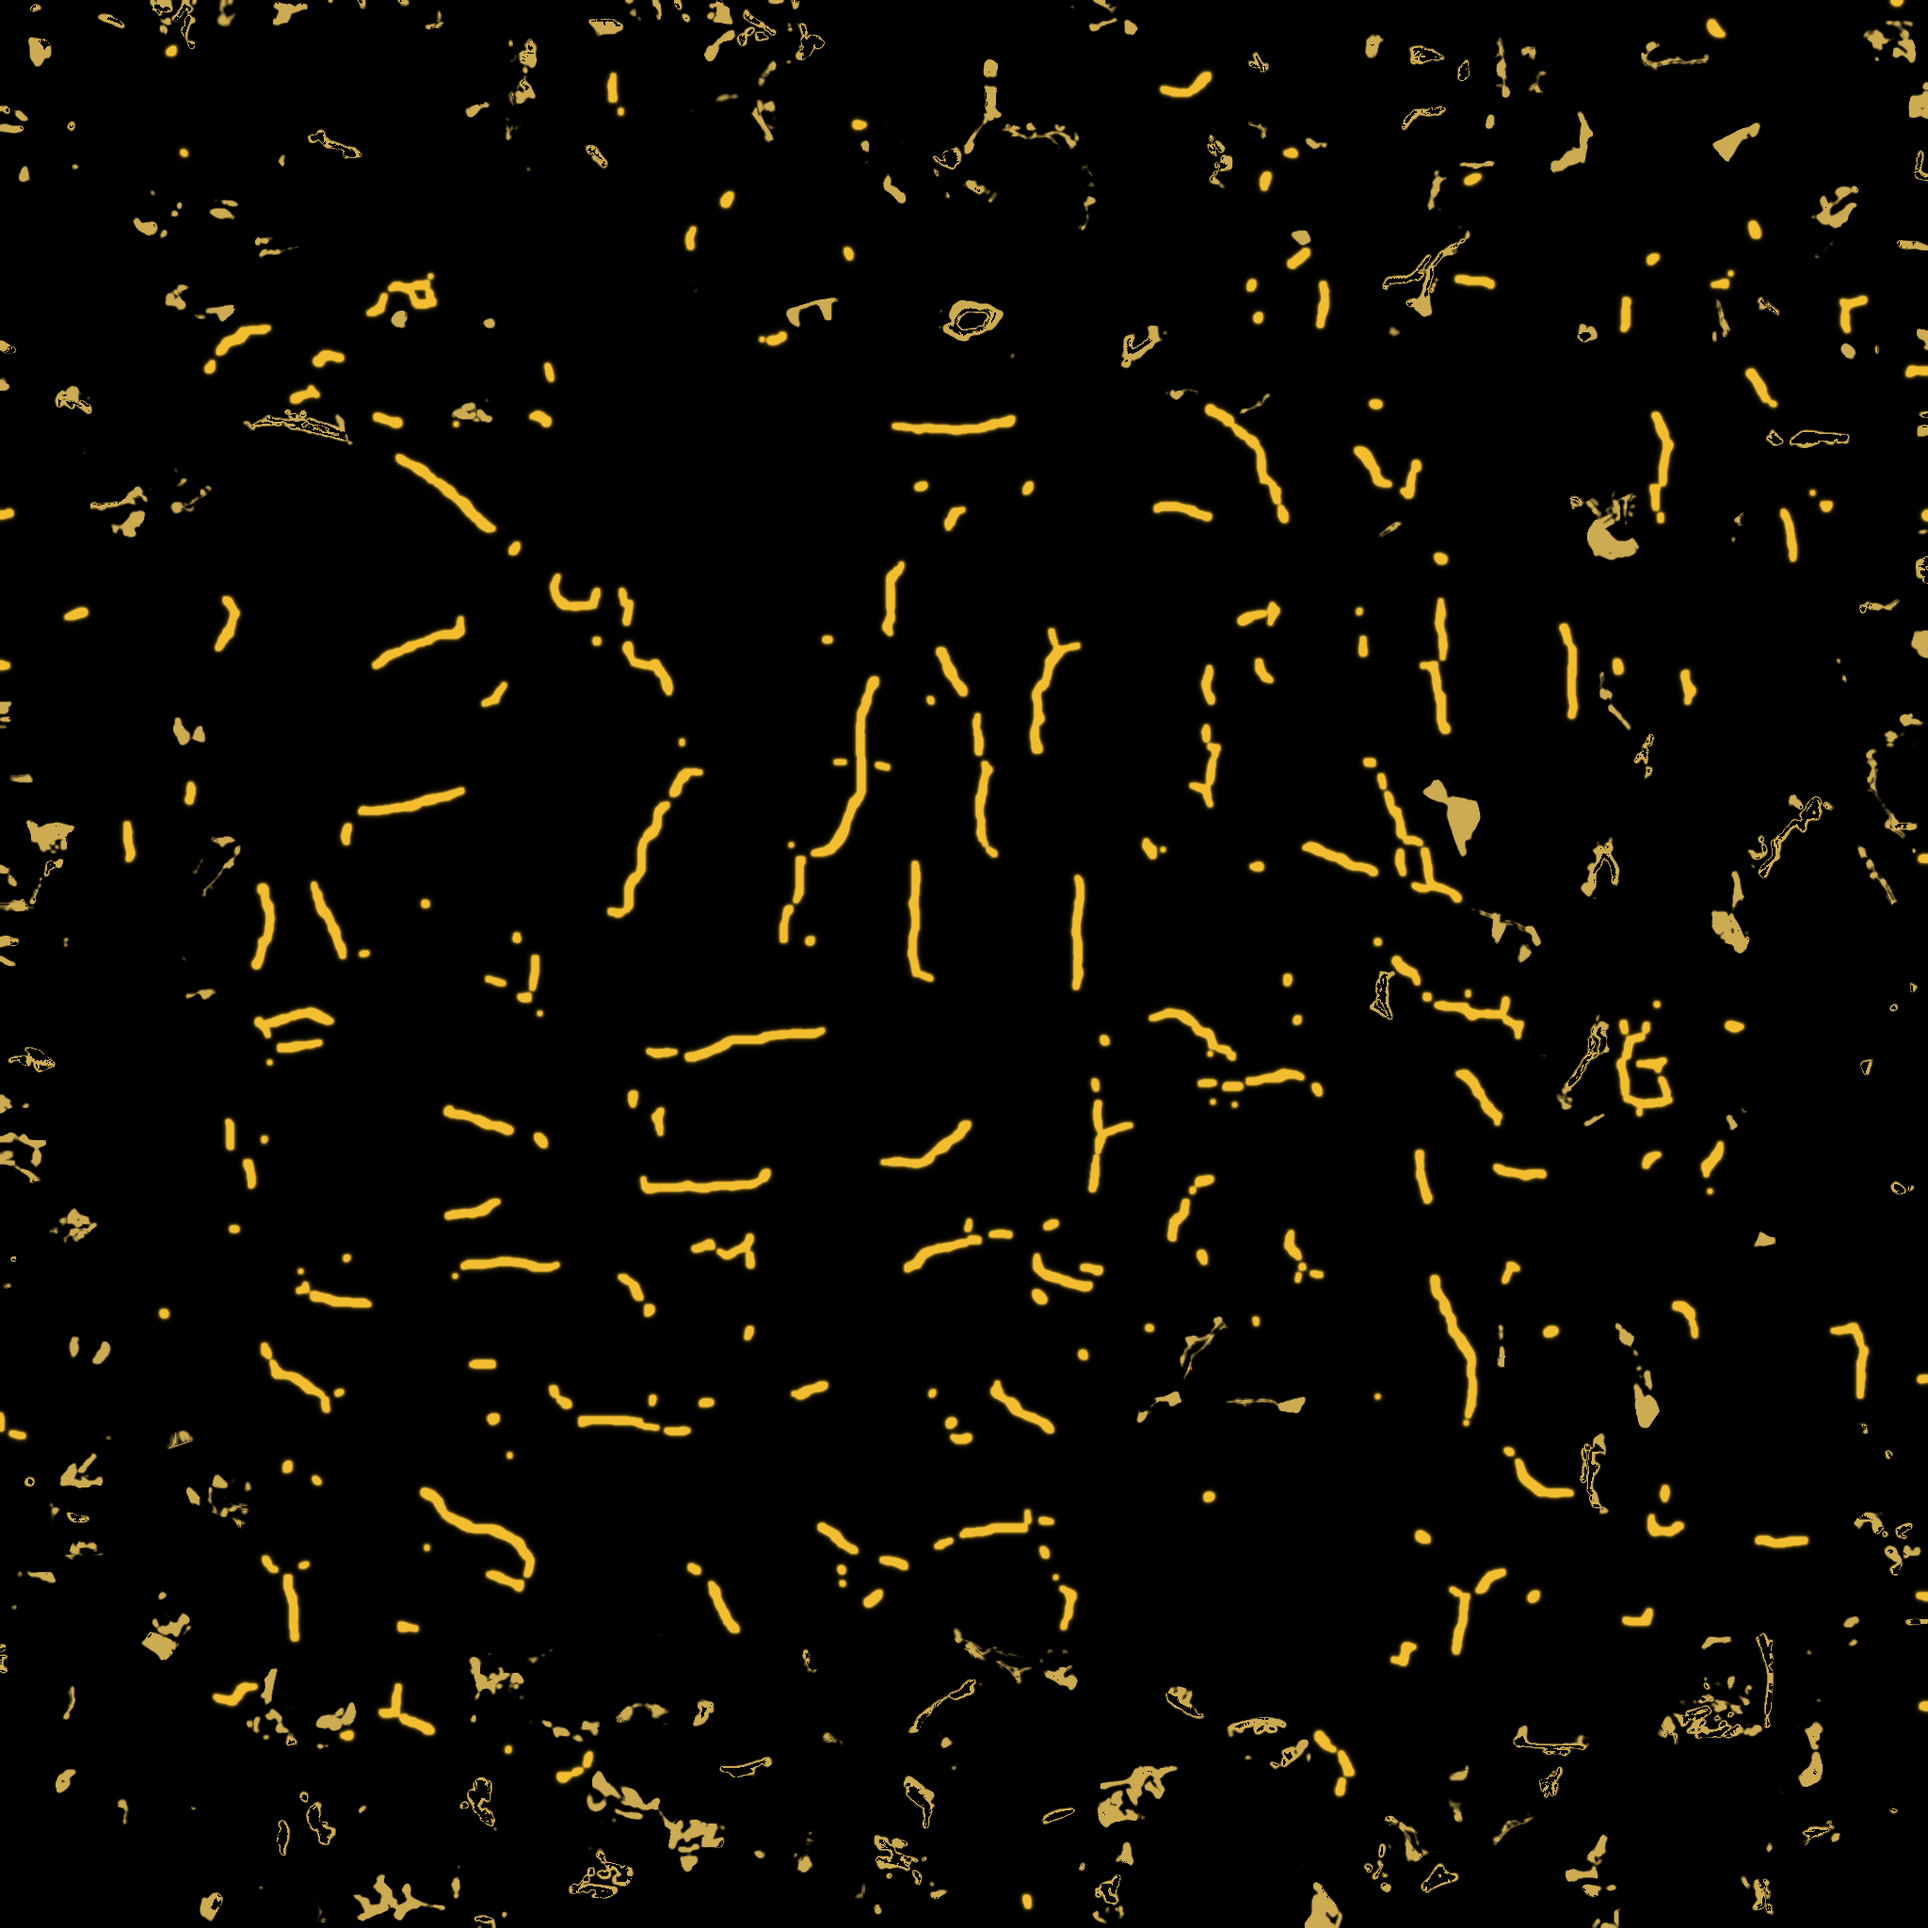
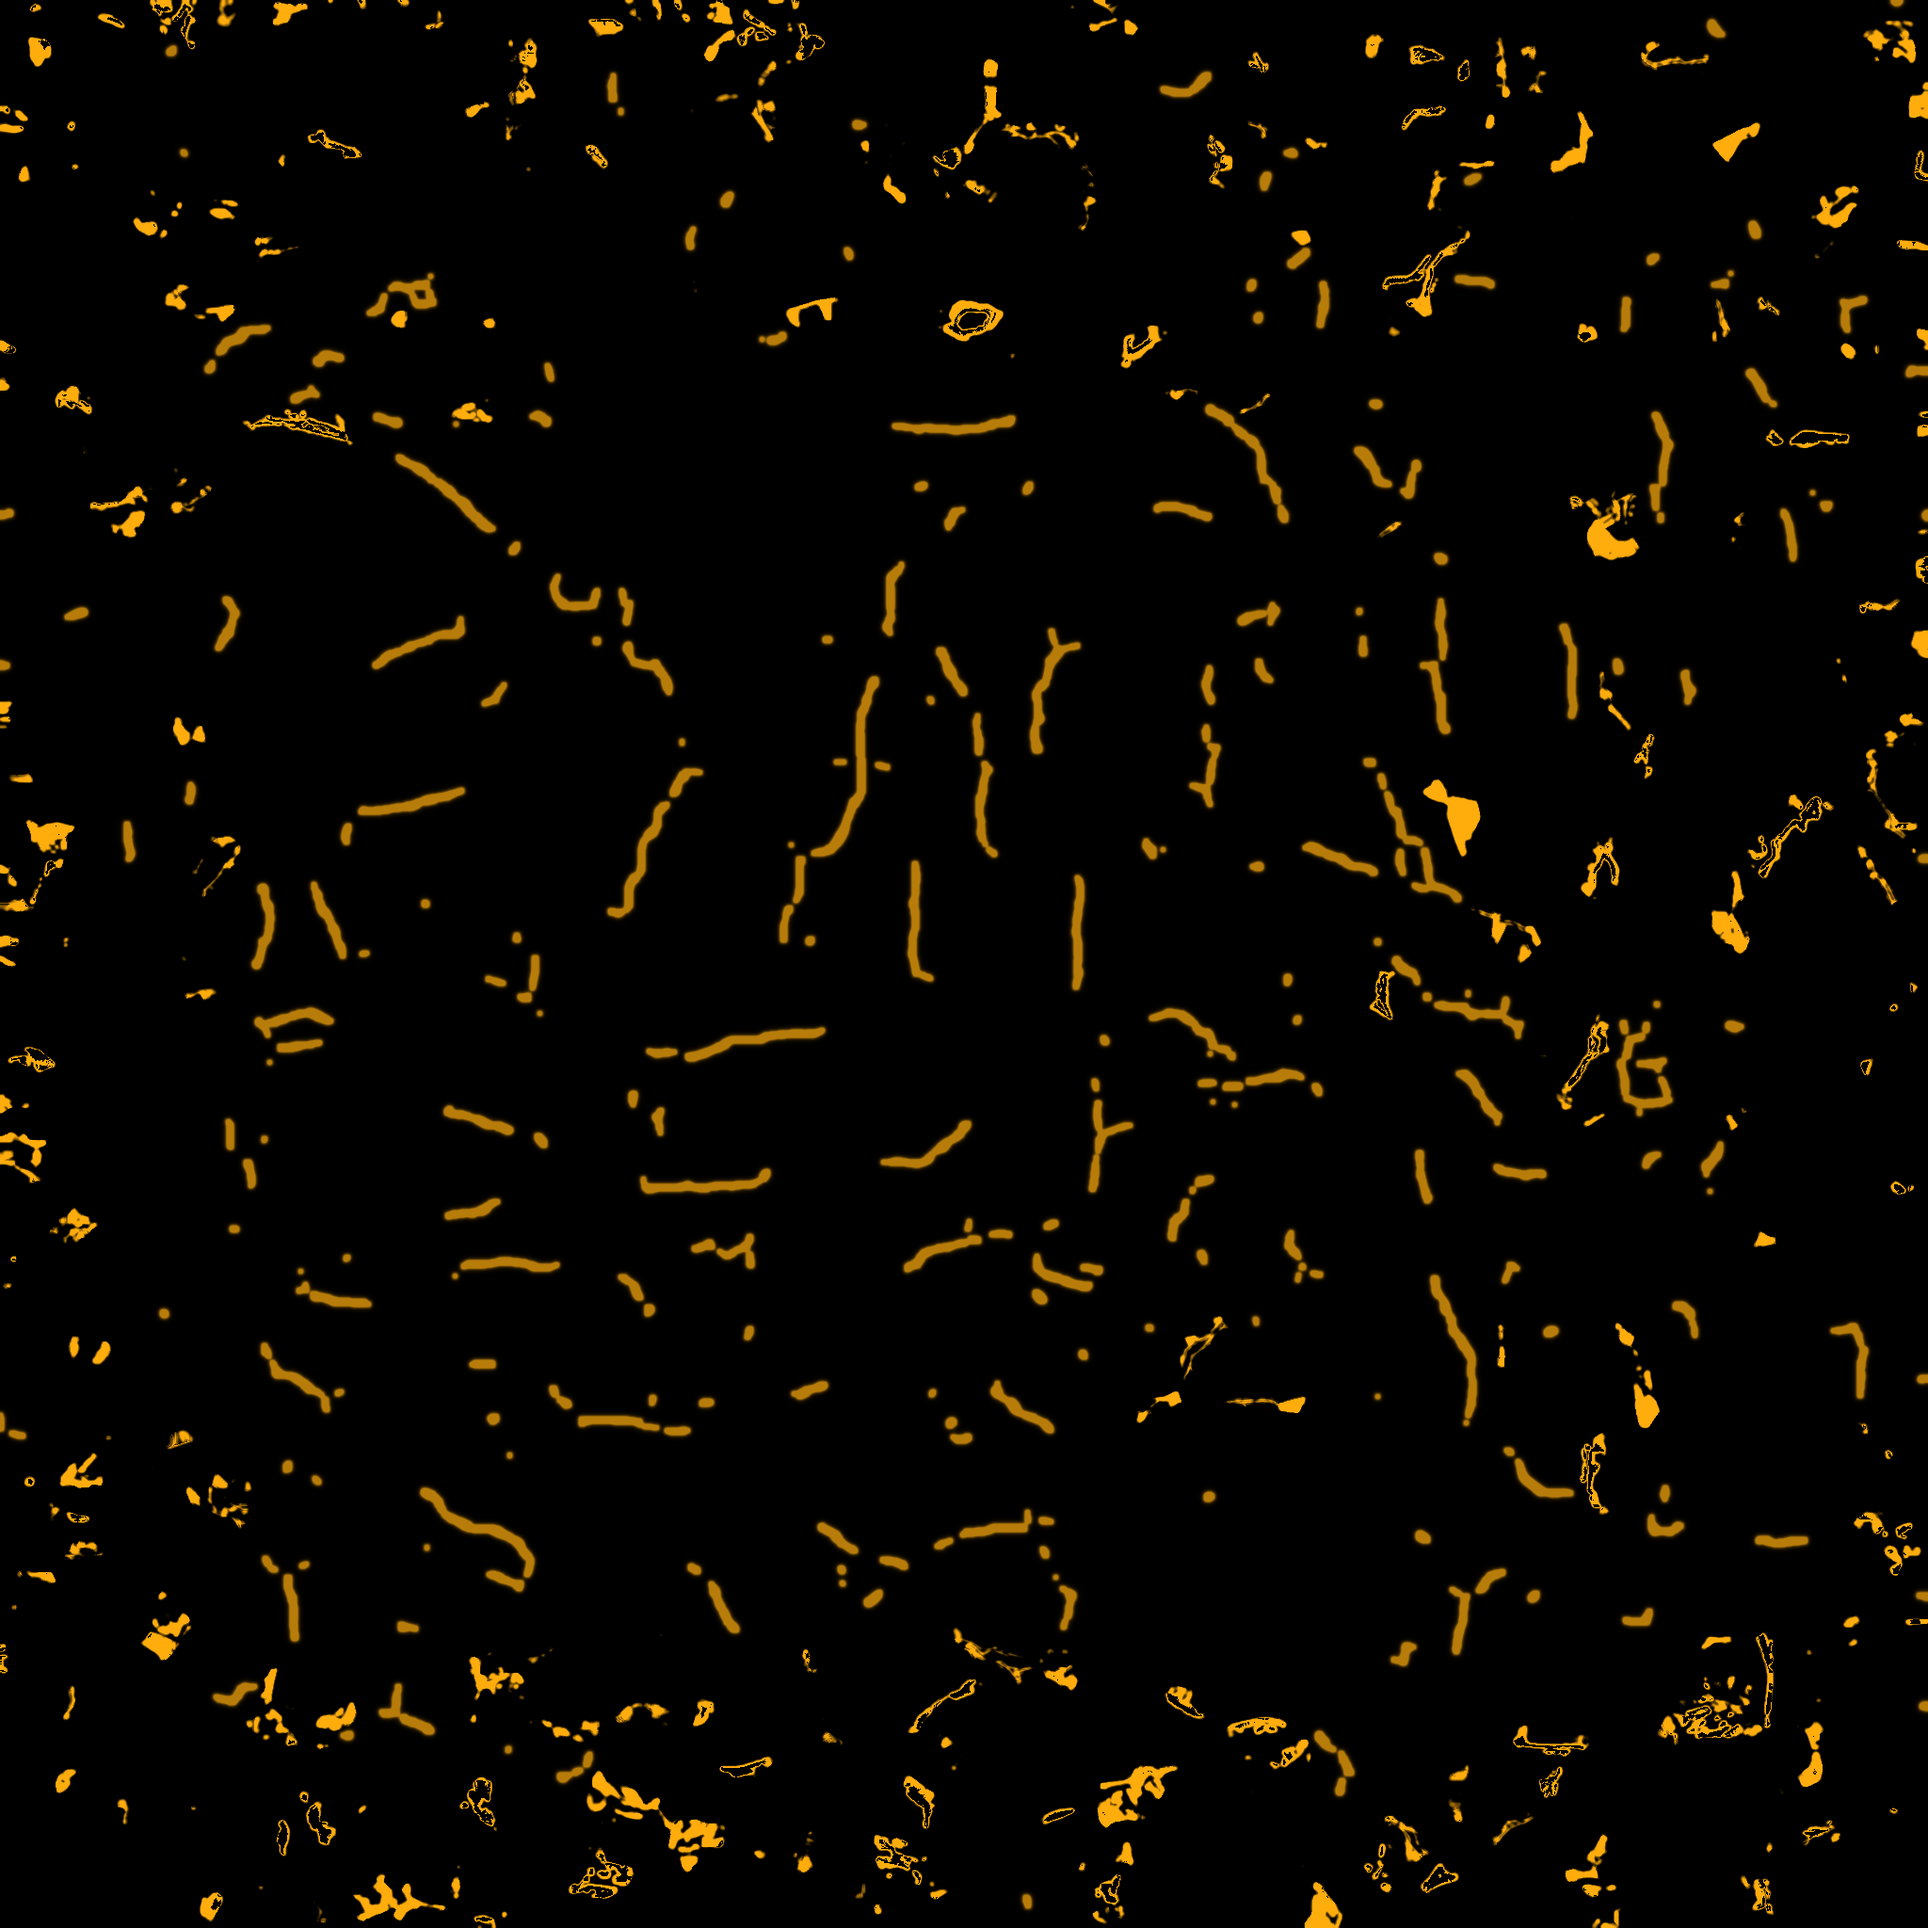
Fulgocobra r2: deeper amber veins at lower energy, olive plates, eye glow kept
Claude-Session: https://claude.ai/code/session_01GPgpLTfhRVzmhmswzRDvDP

diff --git a/ralph/reports/LANES/BELOW6-FULGOCOBRA/make_olive_veins.py b/ralph/reports/LANES/BELOW6-FULGOCOBRA/make_olive_veins.py
@@ -24,7 +24,7 @@ from PIL import Image, ImageFilter
 
 BASE = "assets/creatures/tetherbound/fulgocobra/candidate_owner1101/models/creature_fulgocobra_owner1101_"
 SRC_A, SRC_G = BASE + "Image_0_face.png", BASE + "glow_goldvein_face.png"
-DST_A, DST_G = BASE + "Image_0_olive.png", BASE + "glow_vein_r1.png"
+DST_A, DST_G = BASE + "Image_0_olive.png", BASE + "glow_vein_r1.png"  # r2 overwrites both in place
 
 
 def hsv_of(path):
@@ -79,12 +79,14 @@ band_h, band_s, band_v = 58.0, 0.45, np.clip(v * 0.42, 0, 1)
 keep = vein
 g = np.maximum(gold, band_area * (1 - copper) * (1 - cyan))
 h2 = h2 * (1 - g) + (44.0 * keep + band_h * (1 - keep)) * g
-s2 = s2 * (1 - g) + (0.80 * keep + band_s * (1 - keep)) * g
-v2 = v2 * (1 - g) + (np.clip(0.55 + v * 0.5, 0, 1) * keep + band_v * (1 - keep)) * g
+s2 = s2 * (1 - g) + (0.88 * keep + band_s * (1 - keep)) * g
+# r2: the vein albedo stays a mid gold (the lit core clipped to white on the GPU at 0.55+).
+v2 = v2 * (1 - g) + (np.clip(0.34 + v * 0.2, 0, 0.5) * keep + band_v * (1 - keep)) * g
 # Pale plates: a little darker with a faint olive cast.
+# r2: 0.14 saturation left the head and hood pale grey on the GPU; the plates are olive now.
 h2 = h2 * (1 - plate) + 80.0 * plate
-s2 = s2 * (1 - plate) + 0.14 * plate
-v2 = v2 * (1 - plate) + v * 0.78 * plate
+s2 = s2 * (1 - plate) + 0.30 * plate
+v2 = v2 * (1 - plate) + v * 0.66 * plate
 # Copper to dark bronze.
 h2 = h2 * (1 - copper) + 34.0 * copper
 s2 = s2 * (1 - copper) + np.clip(s * 0.85, 0.42, 1.0) * copper
@@ -98,9 +100,11 @@ rgb_of(h2, s2, v2).save(DST_A)
 gh, gs, gv = hsv_of(SRC_G)
 g_cyan = band(gh, 195.0, 30.0) * np.clip(gv * 3.0, 0, 1)
 vein_glow = np.clip(vein + blur(vein, 3.0) * 0.5, 0, 1)
-ev = np.clip(vein_glow * 0.95 + g_cyan * gv * 0.8, 0, 1)
-eh = np.full_like(gh, 44.0)
-es = np.full_like(gs, 0.80) * (1 - g_cyan * 0.25)
+# r2: a deeper amber at lower value so the core stays gold after tonemap; the eye and arc
+# cracks keep their full strength (the eye glow was lost on the GPU in r1).
+ev = np.clip(vein_glow * 0.72 + g_cyan * gv, 0, 1)
+eh = np.full_like(gh, 40.0)
+es = np.full_like(gs, 0.95)
 rgb_of(eh, es, ev).save(DST_G)
 
 for path in (SRC_A, SRC_G):
